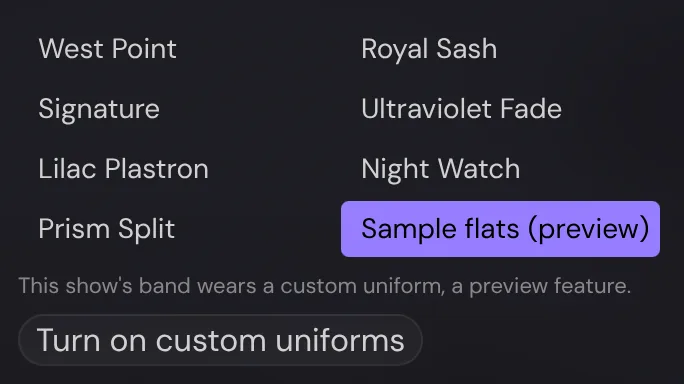
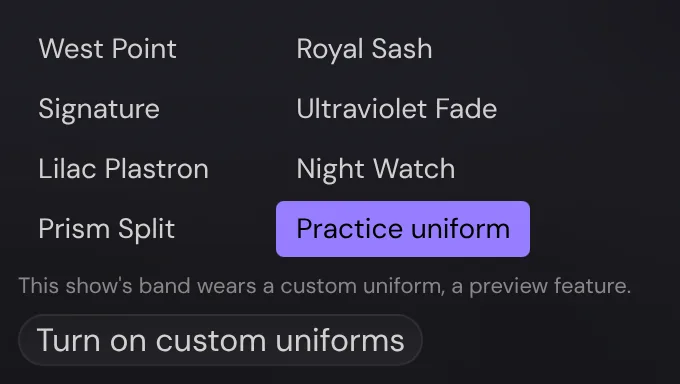
test(3d): list-only failure, Loading… on Try again, Assets invalidates; reshoot the preview-off picture
- The picker and Assets keep the note Try again was pressed on while it runs
  (a query with nothing read goes back to pending when it fetches again), with
  a disabled Loading… button, and a second click doesn't start it over.
- Tests: a failed list with a uniform that reads keeps it picked and shows the
  list note; Loading… while a held read runs; Assets' Try again invalidates
  the uniform's key exactly, or the assets' key for a failed list; wornPack's
  read-only failure; the example pack claims no license.
- The guide's preview-off picture shows an imported uniform made from neutral
  test art (Practice uniform: teal with a gold band), and the guide says a
  failed list alone keeps the band in its uniform.

diff --git a/apps/desktop/src/view3d/window/overlay/__test__/uniformPickerReads.test.tsx b/apps/desktop/src/view3d/window/overlay/__test__/uniformPickerReads.test.tsx
@@ -38,7 +38,9 @@ const NAME = "Colleague's uniform";
 const venue = { current: defaultVenueForKit("hs") as object };
 /** What the worker does with a read, and whether listing the show's assets fails */
 const show = vi.hoisted(() => ({
-    job: "ok" as "ok" | "newer" | "timedOut",
+    job: "ok" as "ok" | "newer" | "timedOut" | "held",
+    /** While `job` is "held", a read waits for this, then reads fine */
+    release: null as null | (() => void),
     listFails: false,
     jobs: 0,
 }));
@@ -98,6 +100,8 @@ vi.mock("@/view3d/uniformPack/runUniformPackJob", async () => {
     return {
         runUniformPackJob: async () => {
             show.jobs++;
+            if (show.job === "held")
+                await new Promise<void>((resolve) => (show.release = resolve));
             if (show.job === "newer")
                 throw new UniformPackJobError("newer", "a later format");
             if (show.job === "timedOut")
@@ -145,6 +149,7 @@ afterEach(() => {
     show.job = "ok";
     show.listFails = false;
     show.jobs = 0;
+    show.release = null;
 });
 
 describe("the uniform picker's notes, through the real read", () => {
@@ -203,14 +208,52 @@ describe("the uniform picker's notes, through the real read", () => {
         ).toContain(NAME);
     });
 
-    it("says the uniform couldn't be loaded when the list of the show's uniforms fails, with the setting off", async () => {
+    it("says only the list failed when the band's uniform still reads, and keeps it picked, with the setting off", async () => {
         show.listFails = true;
         wearing();
         setPreview(false);
         render(<UniformPicker />, { wrapper });
-        await screen.findByTestId("view3d-uniform-loadFailed");
+        const note = await screen.findByTestId("view3d-uniform-list-failed");
+        expect(note.textContent).toContain(
+            "The list of the show's custom uniforms couldn't be loaded just now",
+        );
+        // the band wears it: no load failure, and the picker shows it, picked
+        expect(screen.queryByTestId("view3d-uniform-loadFailed")).toBeNull();
+        await screen.findByTestId("view3d-uniform-preview-worn");
+        const picker = screen.getByTestId("view3d-uniform-picker");
+        expect(
+            picker
+                .querySelector(`[data-value="${PACK}"]`)
+                ?.getAttribute("aria-checked"),
+        ).toBe("true");
         show.listFails = false;
         fireEvent.click(screen.getByTestId("view3d-uniform-try-again"));
+        await vi.waitFor(() =>
+            expect(
+                screen.queryByTestId("view3d-uniform-list-failed"),
+            ).toBeNull(),
+        );
+    });
+
+    it("shows Loading…, disabled, while Try again runs, and a second click doesn't start it over", async () => {
+        show.job = "timedOut";
+        wearing();
+        setPreview(false);
+        render(<UniformPicker />, { wrapper });
+        await screen.findByTestId("view3d-uniform-loadFailed");
+        show.job = "held";
+        const button = screen.getByTestId("view3d-uniform-try-again");
+        fireEvent.click(button);
+        await vi.waitFor(() => expect(show.release).not.toBeNull());
+        expect(button.textContent).toBe("Loading…");
+        expect((button as HTMLButtonElement).disabled).toBe(true);
+        const jobs = show.jobs;
+        fireEvent.click(button);
+        await act(async () => {});
+        expect(show.jobs).toBe(jobs);
+        // the read finishes: the band wears it
+        show.job = "ok";
+        act(() => show.release!());
         await screen.findByTestId("view3d-uniform-preview-worn");
         expect(screen.queryByTestId("view3d-uniform-loadFailed")).toBeNull();
     });
@@ -221,7 +264,7 @@ describe("the uniform picker's notes, through the real read", () => {
         render(<UniformPicker />, { wrapper });
         const note = await screen.findByTestId("view3d-uniform-list-failed");
         expect(note.textContent).toContain(
-            "The show's custom uniforms couldn't be loaded just now",
+            "The list of the show's custom uniforms couldn't be loaded just now",
         );
         show.listFails = false;
         fireEvent.click(screen.getByTestId("view3d-uniform-try-again"));

diff --git a/apps/desktop/src/view3d/window/overlay/VenueControls.tsx b/apps/desktop/src/view3d/window/overlay/VenueControls.tsx
@@ -306,15 +306,9 @@ export function UniformPicker() {
     // a read that failed after its retries with nothing read: not a damaged file (Try again)
     const packsFailed = packsQuery.isError && packs === undefined;
     const packFailed = packQuery.isError && pack === undefined;
-    // while Try again runs, the button waits instead of starting it over
-    const retrying =
-        (packsFailed && packsQuery.isFetching) ||
-        (packFailed && packQuery.isFetching);
-    const tryAgain = () => {
-        if (retrying) return;
-        if (packsFailed) void packsQuery.refetch();
-        if (packFailed) void packQuery.refetch();
-    };
+    // the note Try again was pressed on, kept while it runs: a query with nothing read goes
+    // back to pending when it fetches again, which would otherwise hide the note and its button
+    const [retrying, setRetrying] = useState<"load" | "list" | null>(null);
     // the uniform whose version the band wears (editing items adds versions, fork #1258)
     const wornEntry = namedPack ? uniformEntryOf(packs, namedPack) : undefined;
     // a uniform the show no longer has (an undo after Remove unused…), or one whose file
@@ -332,6 +326,17 @@ export function UniformPicker() {
     // note of its own, with the setting on (the list is the picker's choices) or while the band
     // wears a custom uniform
     const listFailed = packsFailed && !problem && (flats || namedPack !== null);
+    const failedNote =
+        retrying ??
+        (problem === "loadFailed" ? "load" : listFailed ? "list" : null);
+    const tryAgain = () => {
+        if (retrying || !failedNote) return;
+        setRetrying(failedNote);
+        void Promise.allSettled([
+            packsFailed ? packsQuery.refetch() : null,
+            packFailed ? packQuery.refetch() : null,
+        ]).finally(() => setRetrying(null));
+    };
     type Value = UniformPresetId | typeof FLATS_SAMPLE | UniformPackValue;
     const sampleOption = {
         value: FLATS_SAMPLE as Value,
@@ -395,18 +400,18 @@ export function UniformPicker() {
                 testId="view3d-uniform-picker"
                 className="grid! grid-cols-2 [&>*]:justify-start"
             />
-            {(problem === "loadFailed" || listFailed) && (
+            {failedNote && (
                 <div
                     className="flex flex-col items-start gap-6"
                     role="status"
                     data-testid={
-                        listFailed
+                        failedNote === "list"
                             ? "view3d-uniform-list-failed"
                             : "view3d-uniform-loadFailed"
                     }
                 >
                     <p className="text-sub text-yellow">
-                        {listFailed
+                        {failedNote === "list"
                             ? t("view3d.uniformImport.listFailed")
                             : t("view3d.uniformImport.loadFailed")}
                     </p>
@@ -414,7 +419,7 @@ export function UniformPicker() {
                         variant="secondary"
                         size="compact"
                         onClick={tryAgain}
-                        disabled={retrying}
+                        disabled={retrying !== null}
                         data-testid="view3d-uniform-try-again"
                     >
                         {retrying

diff --git a/apps/desktop/src/components/assets/AssetsView.tsx b/apps/desktop/src/components/assets/AssetsView.tsx
@@ -81,9 +81,9 @@ export function useSizeText() {
  * list of assets couldn't be loaded (`listFailed`); and Try again, which reads again whatever
  * failed: the list, or the band's uniform ("loadFailed"), and whether it's running (`retrying`).
  *
- * Try again invalidates rather than fetching again itself: the editor relays every invalidation to the 3D
- * View window (`relayInvalidations`), whose own read of the uniform is what dresses the band, so
- * one Try again here reads it again there too.
+ * Try again invalidates rather than fetching again itself: the editor relays every invalidation
+ * to the 3D View window (`relayInvalidations`), whose own read of the uniform is what dresses the
+ * band, so one Try again here reads it again there too.
  */
 function useAssetUse() {
     const queryClient = useQueryClient();
@@ -122,22 +122,22 @@ function useAssetUse() {
     const assetsFailed = assetsQuery.isError && assets === undefined;
     const sizesFailed = sizesQuery.isError && sizes === undefined;
     const wornFailed = wornPackQuery.isError && wornPack === undefined;
-    const retrying =
-        (assetsFailed && assetsQuery.isFetching) ||
-        (sizesFailed && sizesQuery.isFetching) ||
-        (wornFailed && wornPackQuery.isFetching);
+    // the note Try again was pressed on, kept while it runs: a query with nothing read goes
+    // back to pending when it fetches again, which would otherwise hide the note and its button
+    const [retrying, setRetrying] = useState<"list" | "uniform" | null>(null);
     const tryAgain = () => {
         if (retrying) return;
+        const list = assetsFailed || sizesFailed;
+        if (!list && !wornFailed) return;
+        setRetrying(list ? "list" : "uniform");
         // the assets' key covers their sizes and every uniform read
-        if (assetsFailed || sizesFailed)
-            void queryClient.invalidateQueries({
-                queryKey: showAssetKeys.all(),
-            });
-        else if (wornFailed)
-            void queryClient.invalidateQueries({
-                queryKey: uniformPackQueryOptions(worn).queryKey,
-                exact: true,
-            });
+        const refreshed = list
+            ? queryClient.invalidateQueries({ queryKey: showAssetKeys.all() })
+            : queryClient.invalidateQueries({
+                  queryKey: uniformPackQueryOptions(worn).queryKey,
+                  exact: true,
+              });
+        void refreshed.finally(() => setRetrying(null));
     };
     const use = useMemo(() => {
         // `venue` is null with no venue row, undefined while it loads
@@ -178,7 +178,7 @@ function useAssetUse() {
                 ),
             wornPack,
             uniformPackIsNewer(worn),
-            wornFailed,
+            wornFailed || retrying === "uniform",
         );
         return {
             ...use,
@@ -200,12 +200,13 @@ function useAssetUse() {
         historyFailed,
         wornPack,
         wornFailed,
+        retrying,
     ]);
     return {
         use,
-        listFailed: assetsFailed || sizesFailed,
+        listFailed: assetsFailed || sizesFailed || retrying === "list",
         tryAgain,
-        retrying,
+        retrying: retrying !== null,
     };
 }
 

diff --git a/apps/desktop/src/components/assets/__test__/AssetsView.test.tsx b/apps/desktop/src/components/assets/__test__/AssetsView.test.tsx
@@ -38,6 +38,7 @@ import {
 } from "@/db-functions/view3dVenue";
 import { tableNamesToQueryKeys } from "@/hooks/queries/utils";
 import { uniformPackQueryOptions } from "@/hooks/queries/useUniformPack";
+import { showAssetKeys } from "@/hooks/queries/useShowAssets";
 import { useCustomUniformsStore } from "@/view3d/window/uniformArtworkPreview";
 import { strToU8, zipSync } from "fflate";
 import {
@@ -721,7 +722,7 @@ describeDbTests("Assets view", (it) => {
                     expect(
                         screen.getByTestId("assets-load-failed-uniform-note"),
                     ).toHaveTextContent(
-                        "The band's custom uniform couldn't be loaded just now, so the band wears its preset for now. Its file may be fine.",
+                        "The band's custom uniform couldn't be loaded just now. Its file may be fine. Until it loads, the band wears its preset.",
                     ),
                 // the read is retried, with the usual waits, before it fails
                 { timeout: 15000 },
@@ -733,7 +734,21 @@ describeDbTests("Assets view", (it) => {
             ).toBeNull();
 
             worker.passingFailures = 0;
+            // an invalidation, which the editor relays to the 3D View window, never a refetch
+            // only this window would see
+            const invalidate = vi.spyOn(
+                harnessQueryClient()!,
+                "invalidateQueries",
+            );
             fireEvent.click(screen.getByTestId("assets-uniform-try-again"));
+            // the note stays while it runs, its button disabled
+            const busy = screen.getByTestId("assets-uniform-try-again");
+            expect(busy).toHaveTextContent("Loading…");
+            expect(busy).toBeDisabled();
+            expect(invalidate).toHaveBeenCalledWith({
+                queryKey: uniformPackQueryOptions(value).queryKey,
+                exact: true,
+            });
             await waitFor(() =>
                 expect(
                     harnessQueryClient()!.getQueryData(
@@ -768,7 +783,12 @@ describeDbTests("Assets view", (it) => {
         expect(screen.queryAllByTestId("asset-row")).toHaveLength(0);
 
         await db.run(sql`ALTER TABLE show_assets_away RENAME TO show_assets`);
+        const invalidate = vi.spyOn(harnessQueryClient()!, "invalidateQueries");
         fireEvent.click(screen.getByTestId("assets-try-again"));
+        // the assets' key: their list, sizes and uniform reads, relayed to the 3D View too
+        expect(invalidate).toHaveBeenCalledWith({
+            queryKey: showAssetKeys.all(),
+        });
         await waitFor(() =>
             expect(screen.getAllByTestId("asset-row")).toHaveLength(1),
         );

diff --git a/apps/desktop/src/view3d/core/uniformPack/__test__/wornPack.test.ts b/apps/desktop/src/view3d/core/uniformPack/__test__/wornPack.test.ts
@@ -33,12 +33,11 @@ describe("wornPackProblem", () => {
         expect(wornPackProblem(VALUE, true, PACK, true)).toBeNull();
     });
 
-    it("says loadFailed when the read or the list failed with nothing read, apart from a damaged file", () => {
-        // the read failed after its retries
+    it("says loadFailed when the read failed with nothing read, apart from a damaged file", () => {
         expect(wornPackProblem(VALUE, true, undefined, false, true)).toBe(
             "loadFailed",
         );
-        // the list of the show's uniforms failed
+        // the list failed too: still the read's failure
         expect(wornPackProblem(VALUE, undefined, undefined, false, true)).toBe(
             "loadFailed",
         );
@@ -51,10 +50,16 @@ describe("wornPackProblem", () => {
         );
         expect(wornPackProblem(VALUE, true, null, true, true)).toBe("newer");
         expect(wornPackProblem(VALUE, true, PACK, false, true)).toBeNull();
-        // nothing to say for a preset
         expect(
             wornPackProblem(null, undefined, undefined, false, true),
         ).toBeNull();
+    });
+
+    it("has nothing to say about the band's uniform when only the list failed", () => {
+        // the list is unknown (failed), the uniform reads: the band wears it
+        expect(wornPackProblem(VALUE, undefined, PACK)).toBeNull();
+        // and while it's still being read
+        expect(wornPackProblem(VALUE, undefined, undefined)).toBeNull();
     });
 
     it("waits for the read, and is quiet once the pack reads", () => {
